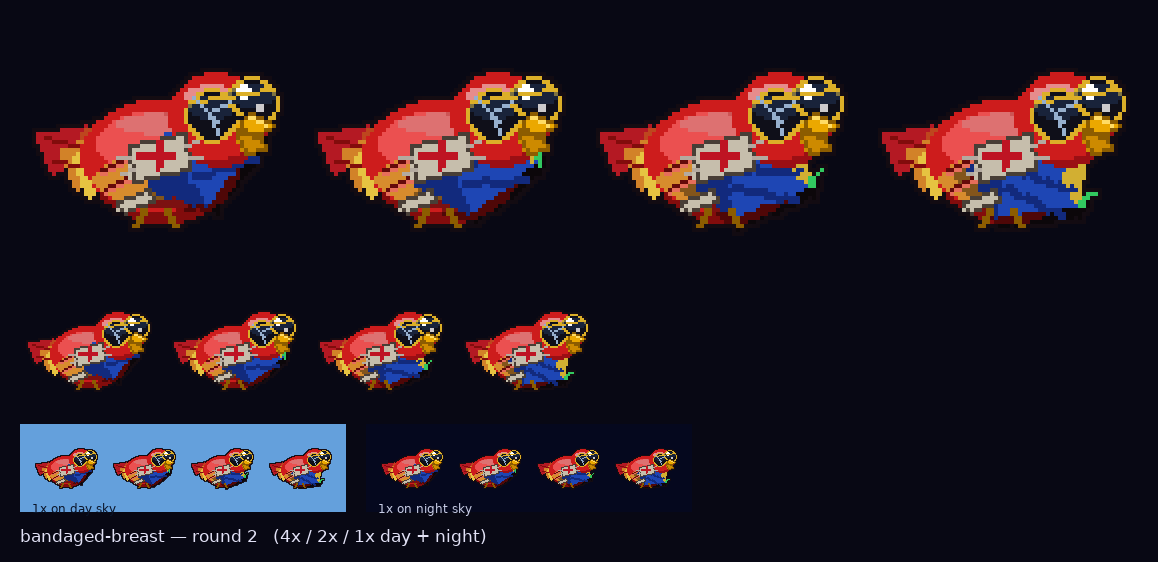
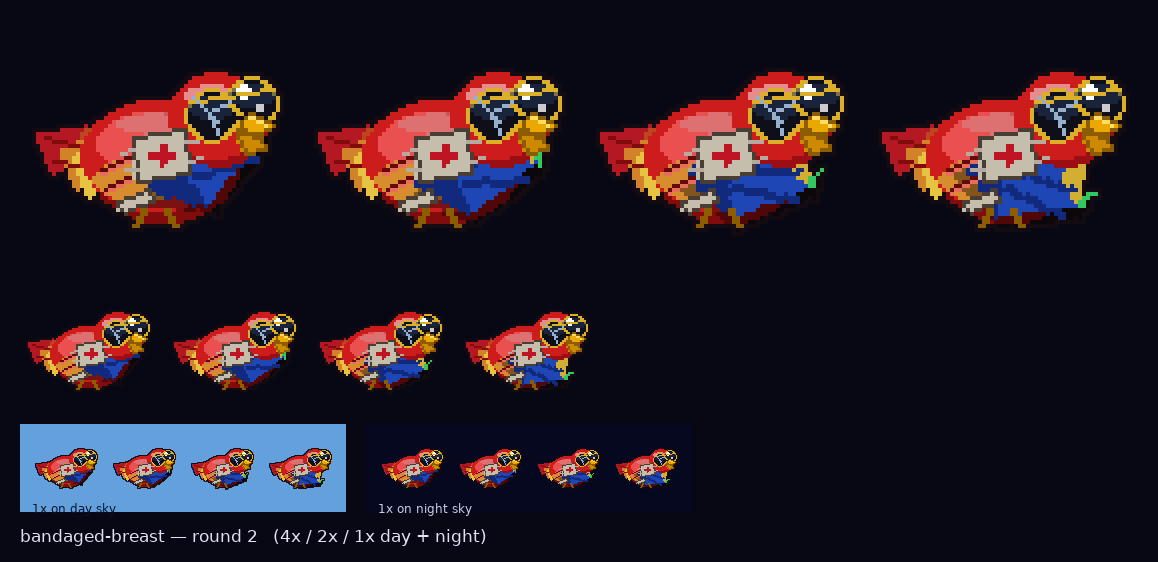
hurt-parrot: bandaged-breast Round 2 final
Claude-Session: https://claude.ai/code/session_01SYxW5bMXxMEcZRx1arfvCN

diff --git a/docs/hurt-parrot-v5/bandaged-breast/design.py b/docs/hurt-parrot-v5/bandaged-breast/design.py
@@ -18,9 +18,11 @@ from out-shouting the beak and the lens glint as the sprite's brightest point.
 
 Everything V3 got right is untouched — bright plumage, the raked claw cuts, the
 crooked aviators, the starred lens, the torn primaries, the kicked tail feather.
-The chest pad is narrowed on its right so the outboard halves of the rake stay
+The pad is held off the left flank so the outboard halves of the rake stay
 visible: the cuts read as emerging from *under* the pad, which is what sells the
-pad as covering a wound rather than being a costume element.
+pad as covering a wound rather than being a costume element. Its right edge is
+pulled back off the throat for the same reason in reverse — gauze that reaches
+the jawline stops reading as a chest dressing and starts reading as a bib.
 """
 import math
 import os, sys
@@ -51,6 +53,9 @@ GAUZE      = (198, 190, 172)
 HEM        = ( 72,  62,  54)
 STITCH     = (180, 170, 160)
 CROSS      = (190,  20,  35)
+# The chest pad, as a slightly-off-square quad: taped on in a hurry by someone
+# who was not being careful, which is the whole tone of the concept.
+PAD        = [(26, 27), (39, 25), (40, 36), (27, 38)]
 SCRATCH_D  = (100,  10,  10)
 SCRATCH_HL = (230, 110,  90)
 # Cracks read as light caught in the fracture. Round 1 drew them near-black on a
@@ -157,14 +162,13 @@ def _draw_chest_dressing(surf):
     # Grown in both axes over the first pass: at 1x the cross needs enough gauze
     # around it to still read as a *symbol on a pad* rather than as two stray red
     # pixels, and the pad only earns that if it clears the cross by a margin.
-    pad = [(25, 29), (39, 26), (40, 35), (26, 38)]
-    d.polygon(layer, GAUZE, pad)
-    d.polygon(layer, HEM, pad, 1)
+    # Held off the left flank so the raked claw cuts still emerge from under it.
+    d.polygon(layer, GAUZE, PAD)
+    d.polygon(layer, HEM, PAD, 1)
 
     # Tape tabs: 1 px stubs off the pad's short edges, normal to each edge. They
     # cost almost nothing and are what says "stuck on" instead of "painted on".
-    for (ax, ay), (bx, by), sign in (((25, 29), (26, 38), -1),
-                                     ((39, 26), (40, 35), +1)):
+    for (ax, ay), (bx, by), sign in ((PAD[0], PAD[3], -1), (PAD[1], PAD[2], +1)):
         ex, ey = bx - ax, by - ay
         L = max(1e-3, math.hypot(ex, ey))
         nx, ny = sign * (ey / L), sign * (-ex / L)
@@ -173,32 +177,38 @@ def _draw_chest_dressing(surf):
             d.line(layer, STITCH, (round(px), round(py)),
                    (round(px + nx * 3), round(py + ny * 3)), 1)
 
-    # Cross drawn into its own layer and trimmed to an inset of the pad, so the
-    # arms can be specified generously and still be guaranteed a gauze border on
-    # every side — hand-fitted arm lengths drift the moment the pad moves.
+    # The cross is drawn generously and then *trimmed* to a 3 px inset of the
+    # pad, which guarantees a hem plus two clear pixels of gauze on every side no
+    # matter how the quad is tilted. Hand-fitted arm lengths only hold for one
+    # exact pad, and quietly break the margin the moment the pad is nudged.
     cross = pygame.Surface(surf.get_size(), pygame.SRCALPHA)
-    d.line(cross, CROSS, (27, 31), (36, 31), 2)
-    d.line(cross, CROSS, (32, 27), (32, 35), 2)
-    inset = pygame.Surface(surf.get_size(), pygame.SRCALPHA)
-    d.polygon(inset, (255, 255, 255), _shrink(pad, 2.6))
+    d.line(cross, CROSS, (30, 31), (38, 31), 2)
+    d.line(cross, CROSS, (33, 28), (33, 35), 2)
     for x in range(surf.get_width()):
         for y in range(surf.get_height()):
-            if cross.get_at((x, y))[3] > 8 and inset.get_at((x, y))[3] > 8:
+            if cross.get_at((x, y))[3] > 8 and _inside_by(PAD, x, y, 3.0):
                 layer.set_at((x, y), CROSS)
 
     _stamp_clipped(surf, layer)
 
 
-def _shrink(poly, amount):
-    """Pull a convex quad in toward its centroid by roughly `amount` pixels."""
+def _inside_by(poly, x, y, margin):
+    """True when (x, y) sits at least `margin` px inside every edge of a convex
+    polygon — a perpendicular inset, unlike shrinking toward the centroid, which
+    under-insets the long sides of a non-square quad."""
     cx = sum(p[0] for p in poly) / len(poly)
     cy = sum(p[1] for p in poly) / len(poly)
-    out = []
-    for x, y in poly:
-        dx, dy = cx - x, cy - y
-        L = max(1e-3, math.hypot(dx, dy))
-        out.append((x + dx / L * amount, y + dy / L * amount))
-    return out
+    for i in range(len(poly)):
+        ax, ay = poly[i]
+        bx, by = poly[(i + 1) % len(poly)]
+        ex, ey = bx - ax, by - ay
+        L = max(1e-3, math.hypot(ex, ey))
+        nx, ny = ey / L, -ex / L
+        if (cx - ax) * nx + (cy - ay) * ny < 0:
+            nx, ny = -nx, -ny
+        if (x - ax) * nx + (y - ay) * ny < margin:
+            return False
+    return True
 
 
 def _draw_belly_bandaid(surf):
